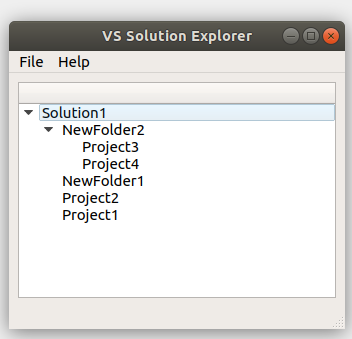
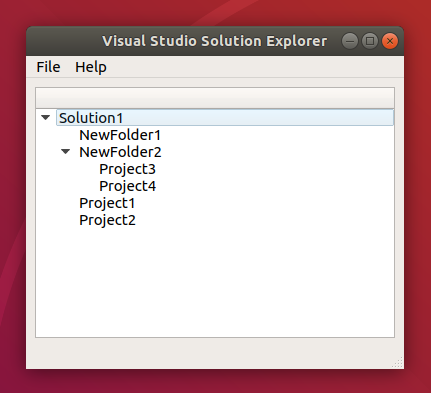
Add solution tree sorting

diff --git a/vs-solution-explorer/SolutionTreeModel.cpp b/vs-solution-explorer/SolutionTreeModel.cpp
@@ -27,6 +27,9 @@ namespace SolutionTree {
         virtual void addChild(const std::shared_ptr<IItem>& child) = 0;
     };
 
+    using UuidItemIndex = std::unordered_map<ISolutionProject::Uuid,
+                                             std::shared_ptr<SolutionTree::IItem>>;
+
     class BaseItem: public IItem
     {
     public:
@@ -150,6 +153,45 @@ QVariant SolutionTreeModel::data(const QModelIndex& index, int role) const
     return node->name().c_str();
 }
 
+namespace
+{
+    std::vector<ISolutionGlobal::NestedProject>
+    sortedNestedProjects(const ISolutionGlobal::NestedProjects& projects,
+                         const SolutionTree::UuidItemIndex& uuidItemIndex)
+    {
+        using T = ISolutionGlobal::NestedProject;
+
+        std::vector<T> sortedProjects{projects.begin(), projects.end()};
+
+        std::sort(sortedProjects.begin(), sortedProjects.end(),
+                  [&uuidItemIndex](const T& a, const T& b){
+            return uuidItemIndex.find(a.projectUuid)->second->name()
+                   <
+                   uuidItemIndex.find(b.projectUuid)->second->name();
+        });
+
+        return sortedProjects;
+    }
+
+    std::vector<std::shared_ptr<SolutionTree::IItem>>
+    sortedItems(const SolutionTree::UuidItemIndex& uuidItemIndex)
+    {
+        using T = std::shared_ptr<SolutionTree::IItem>;
+
+        std::vector<T> items;
+        items.reserve(uuidItemIndex.size());
+        for (const auto& itemIt: uuidItemIndex) {
+            items.push_back(itemIt.second);
+        }
+
+        std::sort(items.begin(), items.end(), [](const T& a, const T& b){
+            return a->name() < b->name();
+        });
+
+        return items;
+    }
+}
+
 void SolutionTreeModel::openSolution(const QString& filename)
 {
     std::unique_ptr<ISolution> parsedSolution;
@@ -169,8 +211,7 @@ void SolutionTreeModel::openSolution(const QString& filename)
 
     QString soulutionName = QFileInfo{filename}.completeBaseName();
 
-    std::unordered_map<ISolutionProject::Uuid,
-                       std::shared_ptr<SolutionTree::IItem>> uuidItemIndex;
+    SolutionTree::UuidItemIndex uuidItemIndex;
 
     for (const auto& project: parsedSolution->projects()) {
         std::shared_ptr<SolutionTree::BaseItem> projectItem;
@@ -184,7 +225,10 @@ void SolutionTreeModel::openSolution(const QString& filename)
         uuidItemIndex[project->uuid()] = projectItem;
     }
 
-    for (const auto& project: parsedSolution->global()->nestedProjects()) {
+    const auto& nestedProjects = parsedSolution->global()->nestedProjects();
+    const auto sortedNestedProjects = ::sortedNestedProjects(nestedProjects, uuidItemIndex);
+
+    for (const auto& project: sortedNestedProjects) {
         auto itemIt = uuidItemIndex.find(project.projectUuid);
         if (itemIt == uuidItemIndex.end()) {
             QMessageBox::warning(nullptr, "Solution tree error",
@@ -216,10 +260,10 @@ void SolutionTreeModel::openSolution(const QString& filename)
     solutionItem->setName(soulutionName.toStdString());
     solutionItem->setParent(nullptr, m_solutions.size());
 
-    for (const auto& projectIt: uuidItemIndex) {
-        if (!projectIt.second->parent()) {
-            projectIt.second->setParent(solutionItem, solutionItem->childCount());
-            solutionItem->addChild(projectIt.second);
+    for (const auto& project: sortedItems(uuidItemIndex)) {
+        if (!project->parent()) {
+            project->setParent(solutionItem, solutionItem->childCount());
+            solutionItem->addChild(project);
         }
     }
 
